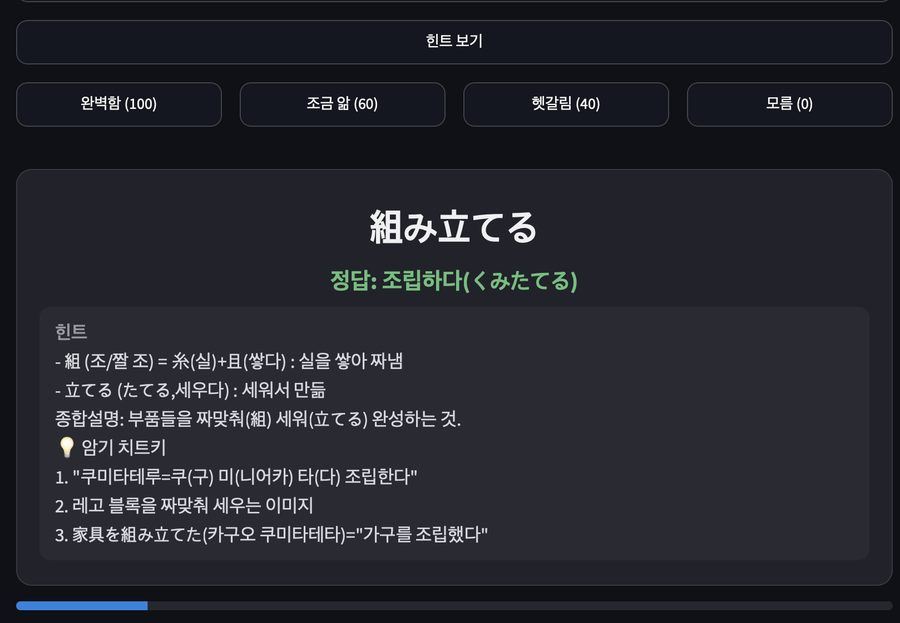
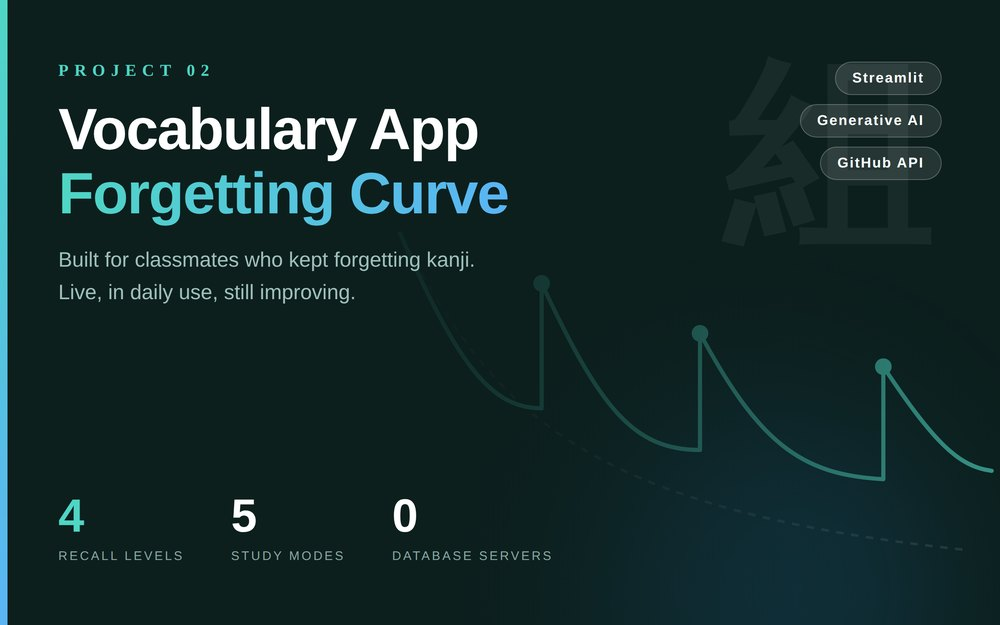
1

diff --git a/index.html b/index.html
@@ -14,7 +14,7 @@
 
 <!-- ?v= 는 캐시 무효화용입니다. style.css / script.js 를 고칠 때마다 숫자를 올리세요.
      (GitHub Pages 가 예전 CSS 를 계속 내려주는 문제를 막습니다.) -->
-<link rel="stylesheet" href="style.css?v=6" />
+<link rel="stylesheet" href="style.css?v=7" />
 </head>
 <body>
 
@@ -236,32 +236,44 @@
       </div>
 
       <div class="work-grid">
-        <article class="project reveal" style="background-image:url(images/project-kobert.jpg)">
-          <div class="project-desc">
-            <div class="project-con">
-              <span class="project-no">01</span>
-              <h3 id="p1-title">学術論文 研究分野 自動分類モデル</h3>
-              <span class="project-period" id="p1-period">2025.10 – 2025.11</span>
-              <p id="p1-tag">KoBERT ・ PyTorch ・ Accuracy 96.9%</p>
-              <span class="project-links">
-                <a href="https://github.com/YSHHAN36565362/univ-data-science-portfolio/tree/main/2025-2/kobert-paper-classifier" target="_blank" rel="noopener" id="p1-link">GitHub</a>
-              </span>
-            </div>
+        <article class="project reveal">
+          <a class="project-thumb"
+             href="https://github.com/YSHHAN36565362/univ-data-science-portfolio/tree/main/2025-2/kobert-paper-classifier"
+             target="_blank" rel="noopener"
+             style="background-image:url(images/project-kobert.jpg)">
+            <span class="sr-only" id="p1-title">学術論文 研究分野 自動分類モデル</span>
+          </a>
+          <div class="project-foot">
+            <span class="project-period" id="p1-period">2025.10 – 2025.11</span>
+            <span class="project-links">
+              <a href="https://github.com/YSHHAN36565362/univ-data-science-portfolio/tree/main/2025-2/kobert-paper-classifier"
+                 target="_blank" rel="noopener">
+                <svg viewBox="0 0 24 24" width="13" height="13" aria-hidden="true"><path fill="currentColor" d="M12 .5C5.73.5.99 5.24.99 11.5c0 4.85 3.15 8.96 7.51 10.41.55.1.75-.24.75-.53v-1.86c-3.06.67-3.7-1.48-3.7-1.48-.5-1.28-1.23-1.62-1.23-1.62-1-.69.08-.67.08-.67 1.1.08 1.68 1.14 1.68 1.14.98 1.69 2.58 1.2 3.21.92.1-.72.39-1.2.7-1.48-2.44-.28-5.01-1.22-5.01-5.45 0-1.2.43-2.19 1.13-2.96-.11-.28-.49-1.4.11-2.92 0 0 .93-.3 3.03 1.13a10.5 10.5 0 0 1 5.52 0c2.1-1.43 3.02-1.13 3.02-1.13.6 1.52.22 2.64.11 2.92.71.77 1.13 1.76 1.13 2.96 0 4.24-2.58 5.17-5.03 5.44.4.34.75 1.01.75 2.04v3.03c0 .29.2.64.76.53a10.53 10.53 0 0 0 7.5-10.41C23.01 5.24 18.27.5 12 .5z"/></svg>
+                <span id="p1-link">GitHub</span>
+              </a>
+            </span>
           </div>
         </article>
 
-        <article class="project reveal" style="background-image:url(images/project-wordapp.jpg)">
-          <div class="project-desc">
-            <div class="project-con">
-              <span class="project-no">02</span>
-              <h3 id="p2-title">単語暗記Webアプリ</h3>
-              <span class="project-period" id="p2-period">2026.07 – 現在</span>
-              <p id="p2-tag">Streamlit ・ 生成AI API ・ GitHub Contents API</p>
-              <span class="project-links">
-                <a href="https://github.com/YSHHAN36565362/word_test" target="_blank" rel="noopener" id="p2-link">GitHub</a>
-                <a href="https://kmove13wordtest.streamlit.app/" target="_blank" rel="noopener" id="p2-link-demo">Live Demo</a>
-              </span>
-            </div>
+        <article class="project reveal">
+          <a class="project-thumb"
+             href="https://kmove13wordtest.streamlit.app/"
+             target="_blank" rel="noopener"
+             style="background-image:url(images/project-wordapp.jpg)">
+            <span class="sr-only" id="p2-title">単語暗記Webアプリ</span>
+          </a>
+          <div class="project-foot">
+            <span class="project-period" id="p2-period">2026.07 – 現在</span>
+            <span class="project-links">
+              <a class="is-demo" href="https://kmove13wordtest.streamlit.app/" target="_blank" rel="noopener">
+                <svg viewBox="0 0 24 24" width="13" height="13" aria-hidden="true"><path fill="currentColor" d="M8 5v14l11-7z"/></svg>
+                <span id="p2-link-demo">Live Demo</span>
+              </a>
+              <a href="https://github.com/YSHHAN36565362/word_test" target="_blank" rel="noopener">
+                <svg viewBox="0 0 24 24" width="13" height="13" aria-hidden="true"><path fill="currentColor" d="M12 .5C5.73.5.99 5.24.99 11.5c0 4.85 3.15 8.96 7.51 10.41.55.1.75-.24.75-.53v-1.86c-3.06.67-3.7-1.48-3.7-1.48-.5-1.28-1.23-1.62-1.23-1.62-1-.69.08-.67.08-.67 1.1.08 1.68 1.14 1.68 1.14.98 1.69 2.58 1.2 3.21.92.1-.72.39-1.2.7-1.48-2.44-.28-5.01-1.22-5.01-5.45 0-1.2.43-2.19 1.13-2.96-.11-.28-.49-1.4.11-2.92 0 0 .93-.3 3.03 1.13a10.5 10.5 0 0 1 5.52 0c2.1-1.43 3.02-1.13 3.02-1.13.6 1.52.22 2.64.11 2.92.71.77 1.13 1.76 1.13 2.96 0 4.24-2.58 5.17-5.03 5.44.4.34.75 1.01.75 2.04v3.03c0 .29.2.64.76.53a10.53 10.53 0 0 0 7.5-10.41C23.01 5.24 18.27.5 12 .5z"/></svg>
+                <span id="p2-link">GitHub</span>
+              </a>
+            </span>
           </div>
         </article>
       </div>
@@ -492,7 +504,7 @@
 <!-- anime.js v4.5.0 — CDN 이 아니라 저장소에 직접 포함(vendored)했습니다.
      외부 CDN 을 쓰다가 페이지 전체가 죽은 적이 있어서입니다. (DESIGN.md 7절)
      이 파일이 없어도 사이트는 100% 동작합니다. 애니메이션 연출만 빠집니다. -->
-<script src="anime.min.js?v=6"></script>
-<script src="script.js?v=6"></script>
+<script src="anime.min.js?v=7"></script>
+<script src="script.js?v=7"></script>
 </body>
 </html>

diff --git a/style.css b/style.css
@@ -435,56 +435,57 @@ body.anime-on .progress-bar { transition: none; }
 }
 
 /* ==================================================================
-   Work — 프로젝트 타일 + 상세
+   Work — 썸네일 카드 + 상세
+   썸네일 자체가 제목·수치를 담고 있으므로, 예전처럼 hover 오버레이로
+   덮지 않고 항상 그대로 보여줍니다. 링크 버튼은 썸네일 아래에 상시 노출해
+   "버튼이 안 보인다" 문제를 없앴습니다.
    ================================================================== */
 .work-grid {
   display: grid; grid-template-columns: repeat(2, 1fr); gap: 30px;
   margin-bottom: 5em;
 }
-.project {
-  position: relative; display: block;
-  height: 300px; width: 100%;
-  background-size: cover; background-position: center top; background-repeat: no-repeat;
+
+.project { display: flex; flex-direction: column; }
+
+.sr-only {
+  position: absolute; width: 1px; height: 1px; padding: 0; margin: -1px;
+  overflow: hidden; clip: rect(0,0,0,0); white-space: nowrap; border: 0;
+}
+
+.project-thumb {
+  display: block; width: 100%;
+  aspect-ratio: 16 / 10;                 /* 썸네일 원본 비율(1000×625)과 동일 */
+  background-size: cover;
+  background-position: center;
+  background-repeat: no-repeat;
   background-color: var(--gray);
+  border-radius: 4px;
+  box-shadow: 0 6px 20px rgba(0,0,0,.10);
+  transition: transform .35s var(--ease), box-shadow .35s ease;
 }
-.project-desc {
-  position: absolute; inset: 0;
-  background: var(--primary);
-  opacity: 0; transition: opacity .35s ease;
+.project-thumb:hover {
+  transform: translateY(-4px);
+  box-shadow: 0 14px 34px rgba(0,0,0,.20);
 }
-.project:nth-child(2) .project-desc { background: var(--c5); }
-.project-con { padding: 26px; height: 100%; display: flex; flex-direction: column; }
-.project-no {
-  font-family: var(--font-heading);
-  font-size: 13px; font-weight: 700; letter-spacing: 3px;
-  color: rgba(255,255,255,.75); margin-bottom: 12px;
+
+.project-foot {
+  display: flex; align-items: center; justify-content: space-between;
+  gap: 12px; flex-wrap: wrap; margin-top: 14px;
 }
-.project-desc h3 {
-  font-family: var(--font-primary);
-  font-size: 16px; font-weight: 500; letter-spacing: 1px; text-transform: uppercase;
-  color: #fff; line-height: 1.6; margin-bottom: 8px;
-  transform: translate3d(0,-15px,0); transition: transform .35s ease;
+.project-period {
+  font-size: 12px; letter-spacing: 1px; color: var(--meta);
 }
-.project-period { font-size: 12px; color: rgba(255,255,255,.75); letter-spacing: 1px; }
-.project-desc p {
-  font-size: 13px; color: rgba(255,255,255,.85); margin: 10px 0 0;
-  transform: translate3d(0,15px,0); transition: transform .35s ease;
-}
-.project-links { margin-top: auto; display: flex; gap: 8px; }
+.project-links { display: flex; gap: 8px; flex-wrap: wrap; }
 .project-links a {
+  display: inline-flex; align-items: center; gap: 6px;
   font-size: 11px; font-weight: 700; letter-spacing: 1px; text-transform: uppercase;
-  color: #16202e; background: #fff;
-  padding: 8px 15px; border-radius: 3px;
-  box-shadow: 0 3px 10px rgba(0,0,0,.22);
-  transition: transform .25s var(--ease), box-shadow .25s ease;
+  color: #fff; background: var(--primary);
+  padding: 8px 14px; border-radius: 3px;
+  transition: transform .25s var(--ease), background .25s ease;
 }
-.project-links a:hover {
-  color: #000; transform: translateY(-2px);
-  box-shadow: 0 6px 16px rgba(0,0,0,.3);
-}
-.project:hover .project-desc { opacity: 1; }
-.project:hover .project-desc h3,
-.project:hover .project-desc p { transform: translate3d(0,0,0); }
+.project-links a:hover { color: #fff; background: #44a4f2; transform: translateY(-2px); }
+.project-links a.is-demo { background: var(--c5); }
+.project-links a.is-demo:hover { background: #278d84; }
 
 /* 프로젝트 상세 */
 .detail {
@@ -509,11 +510,7 @@ body.anime-on .progress-bar { transition: none; }
 .shot { margin: 0 0 1.8em; max-width: 640px; }
 .shot img {
   display: block; width: 100%;
-  /* 원본 아래쪽에 다음 슬라이드의 제목이 살짝 걸려 있어 비율로 잘라냅니다.
-     이미지를 교체하면 이 값을 원본 비율에 맞게 조정하세요. */
-  aspect-ratio: 1.7;
-  height: auto;
-  object-fit: cover; object-position: top center;
+  height: auto;                      /* 원본 비율 그대로 (잘라내지 않음) */
   border: 1px solid var(--gray-line); border-radius: 3px;
   background: var(--gray);
 }
@@ -708,12 +705,7 @@ body.anime-on .progress-bar { transition: none; }
   .counters { margin: 0 -1.25em 4em; padding: 3em 1.25em; }
   .counter { font-size: 30px; }
 
-  .project { height: 240px; }
-  /* 터치 기기에는 hover 가 없으므로 설명 패널을 항상 보여줍니다.
-     배경 사진이 밝은 경우에도 흰 글씨가 읽히도록 충분히 어둡게 덮습니다. */
-  .project-desc { opacity: 1; background: rgba(0,0,0,.74); }
-  .project:nth-child(2) .project-desc { background: rgba(0,0,0,.74); }
-  .project-desc h3, .project-desc p { transform: none; }
+  .project-foot { justify-content: flex-start; }
 
   .detail { grid-template-columns: 1fr; gap: 6px; }
   .detail-no { font-size: 20px; }
